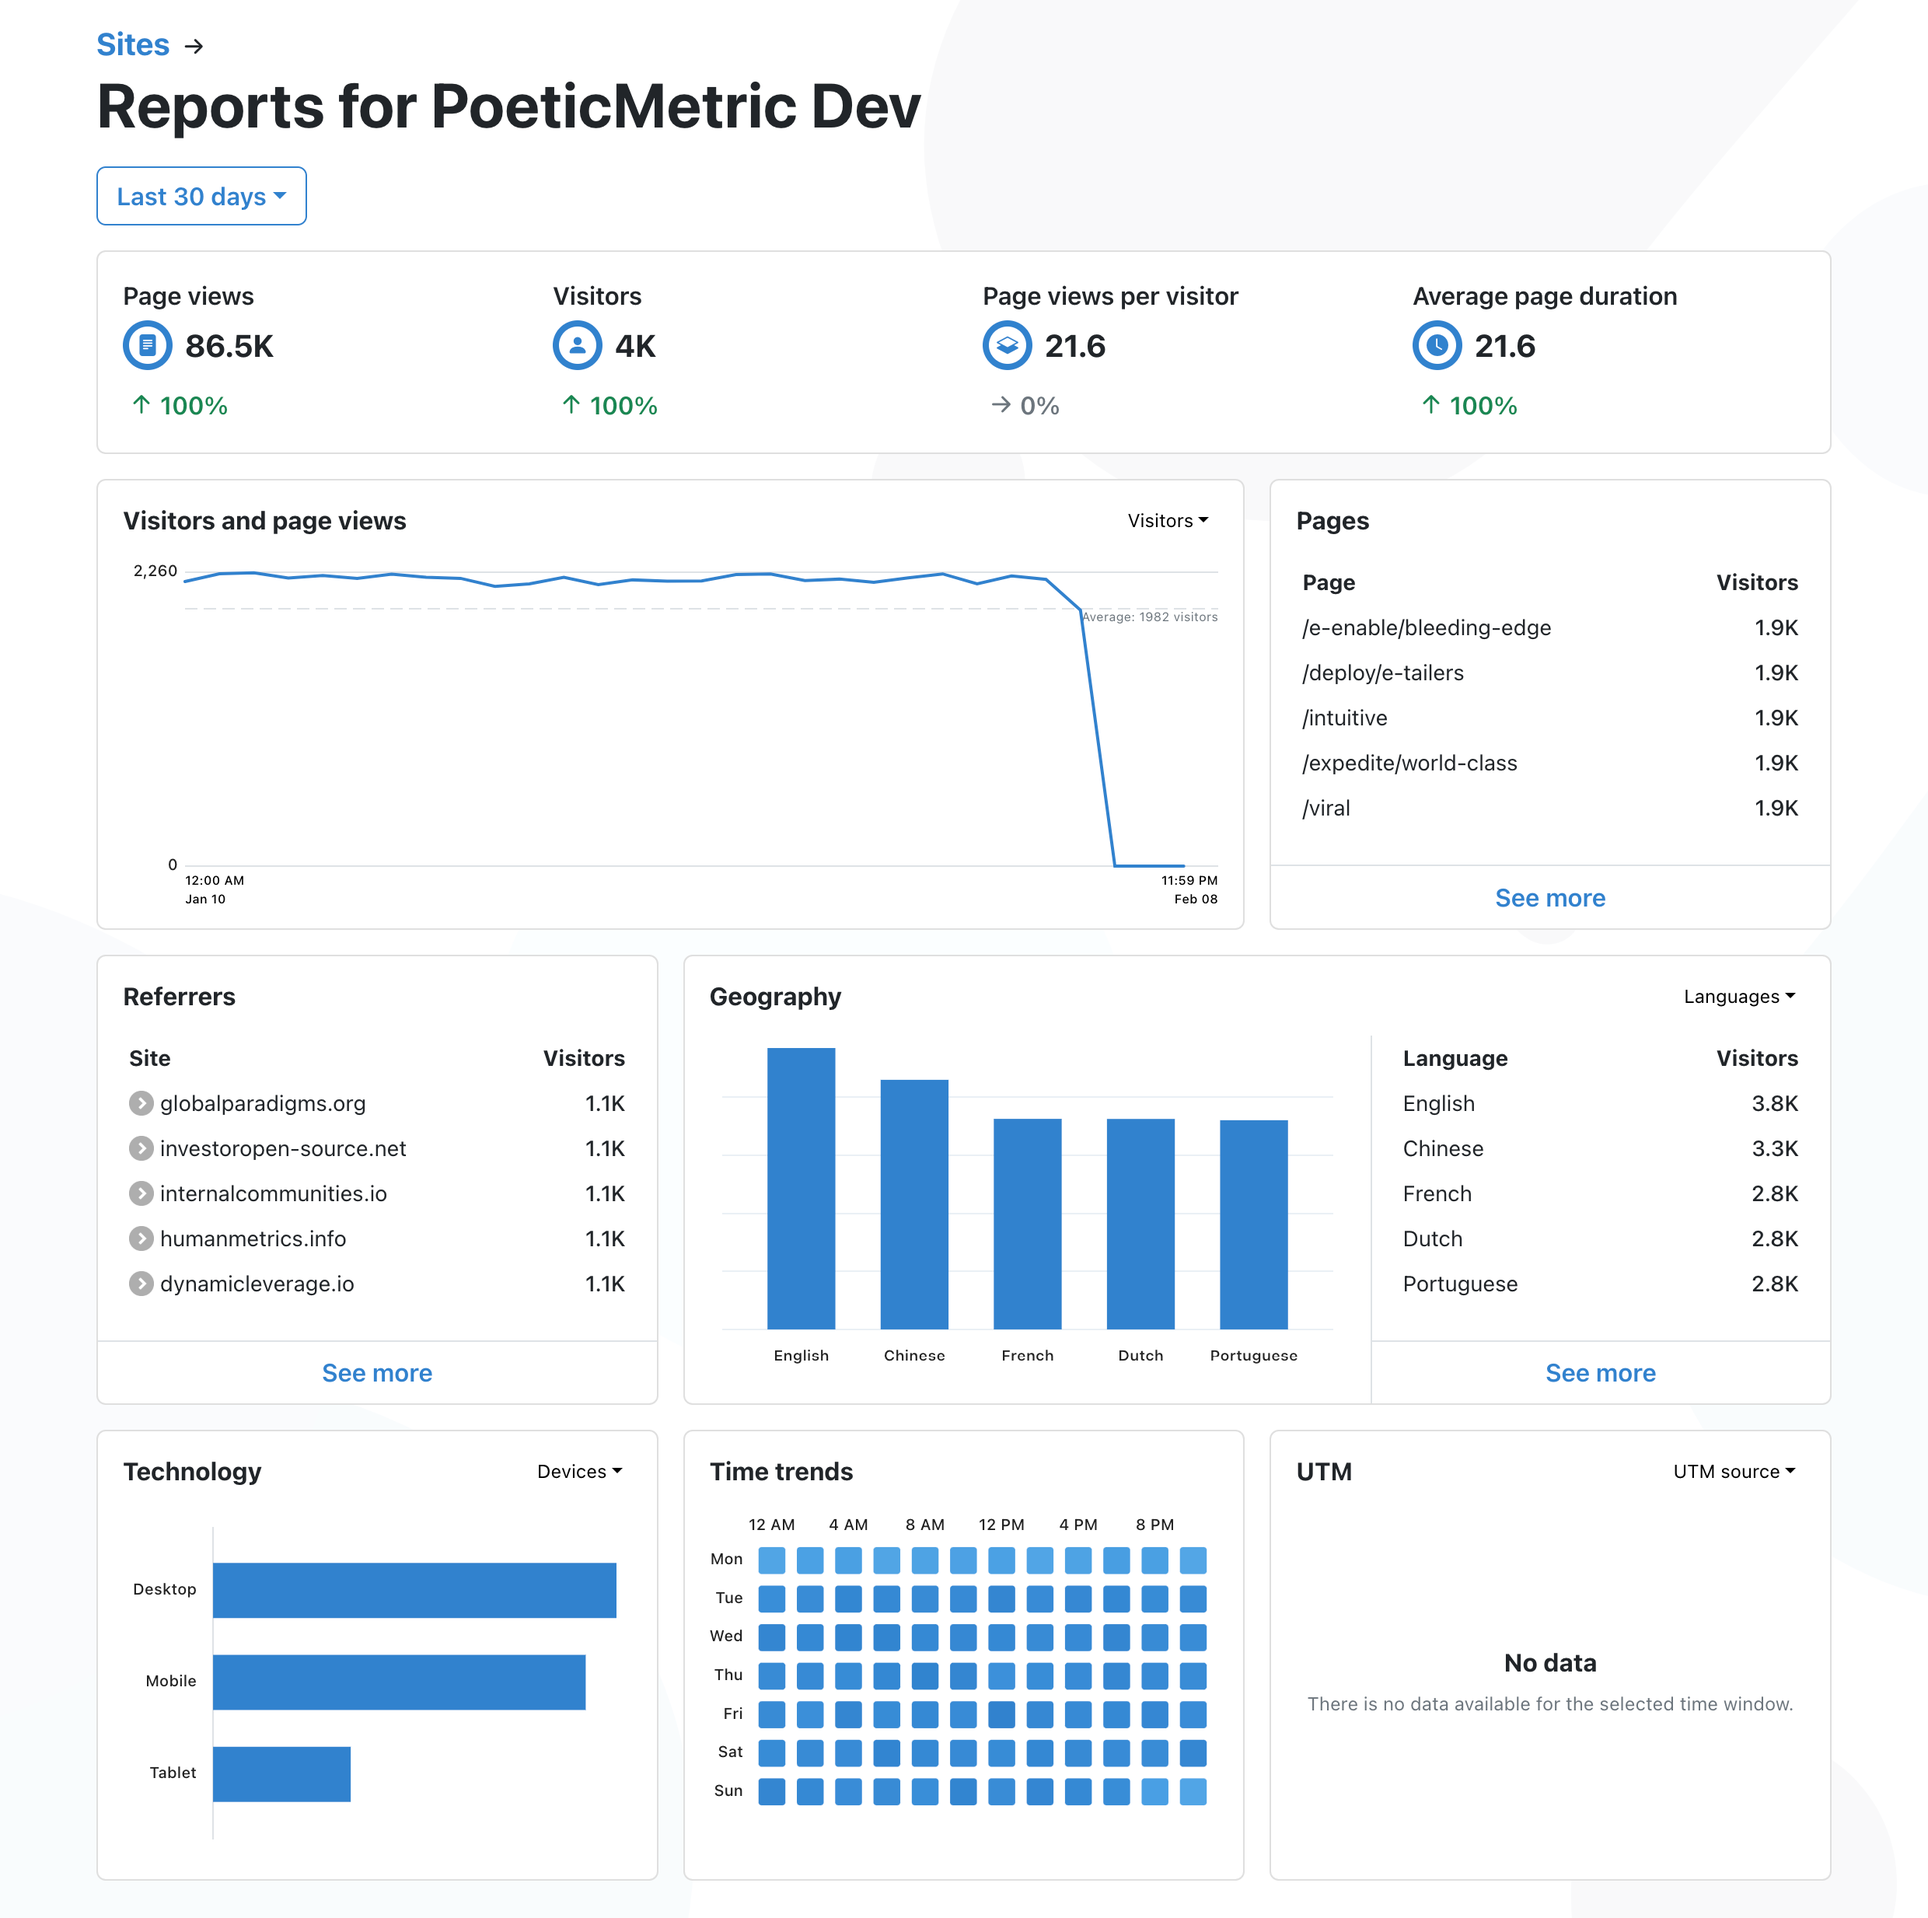
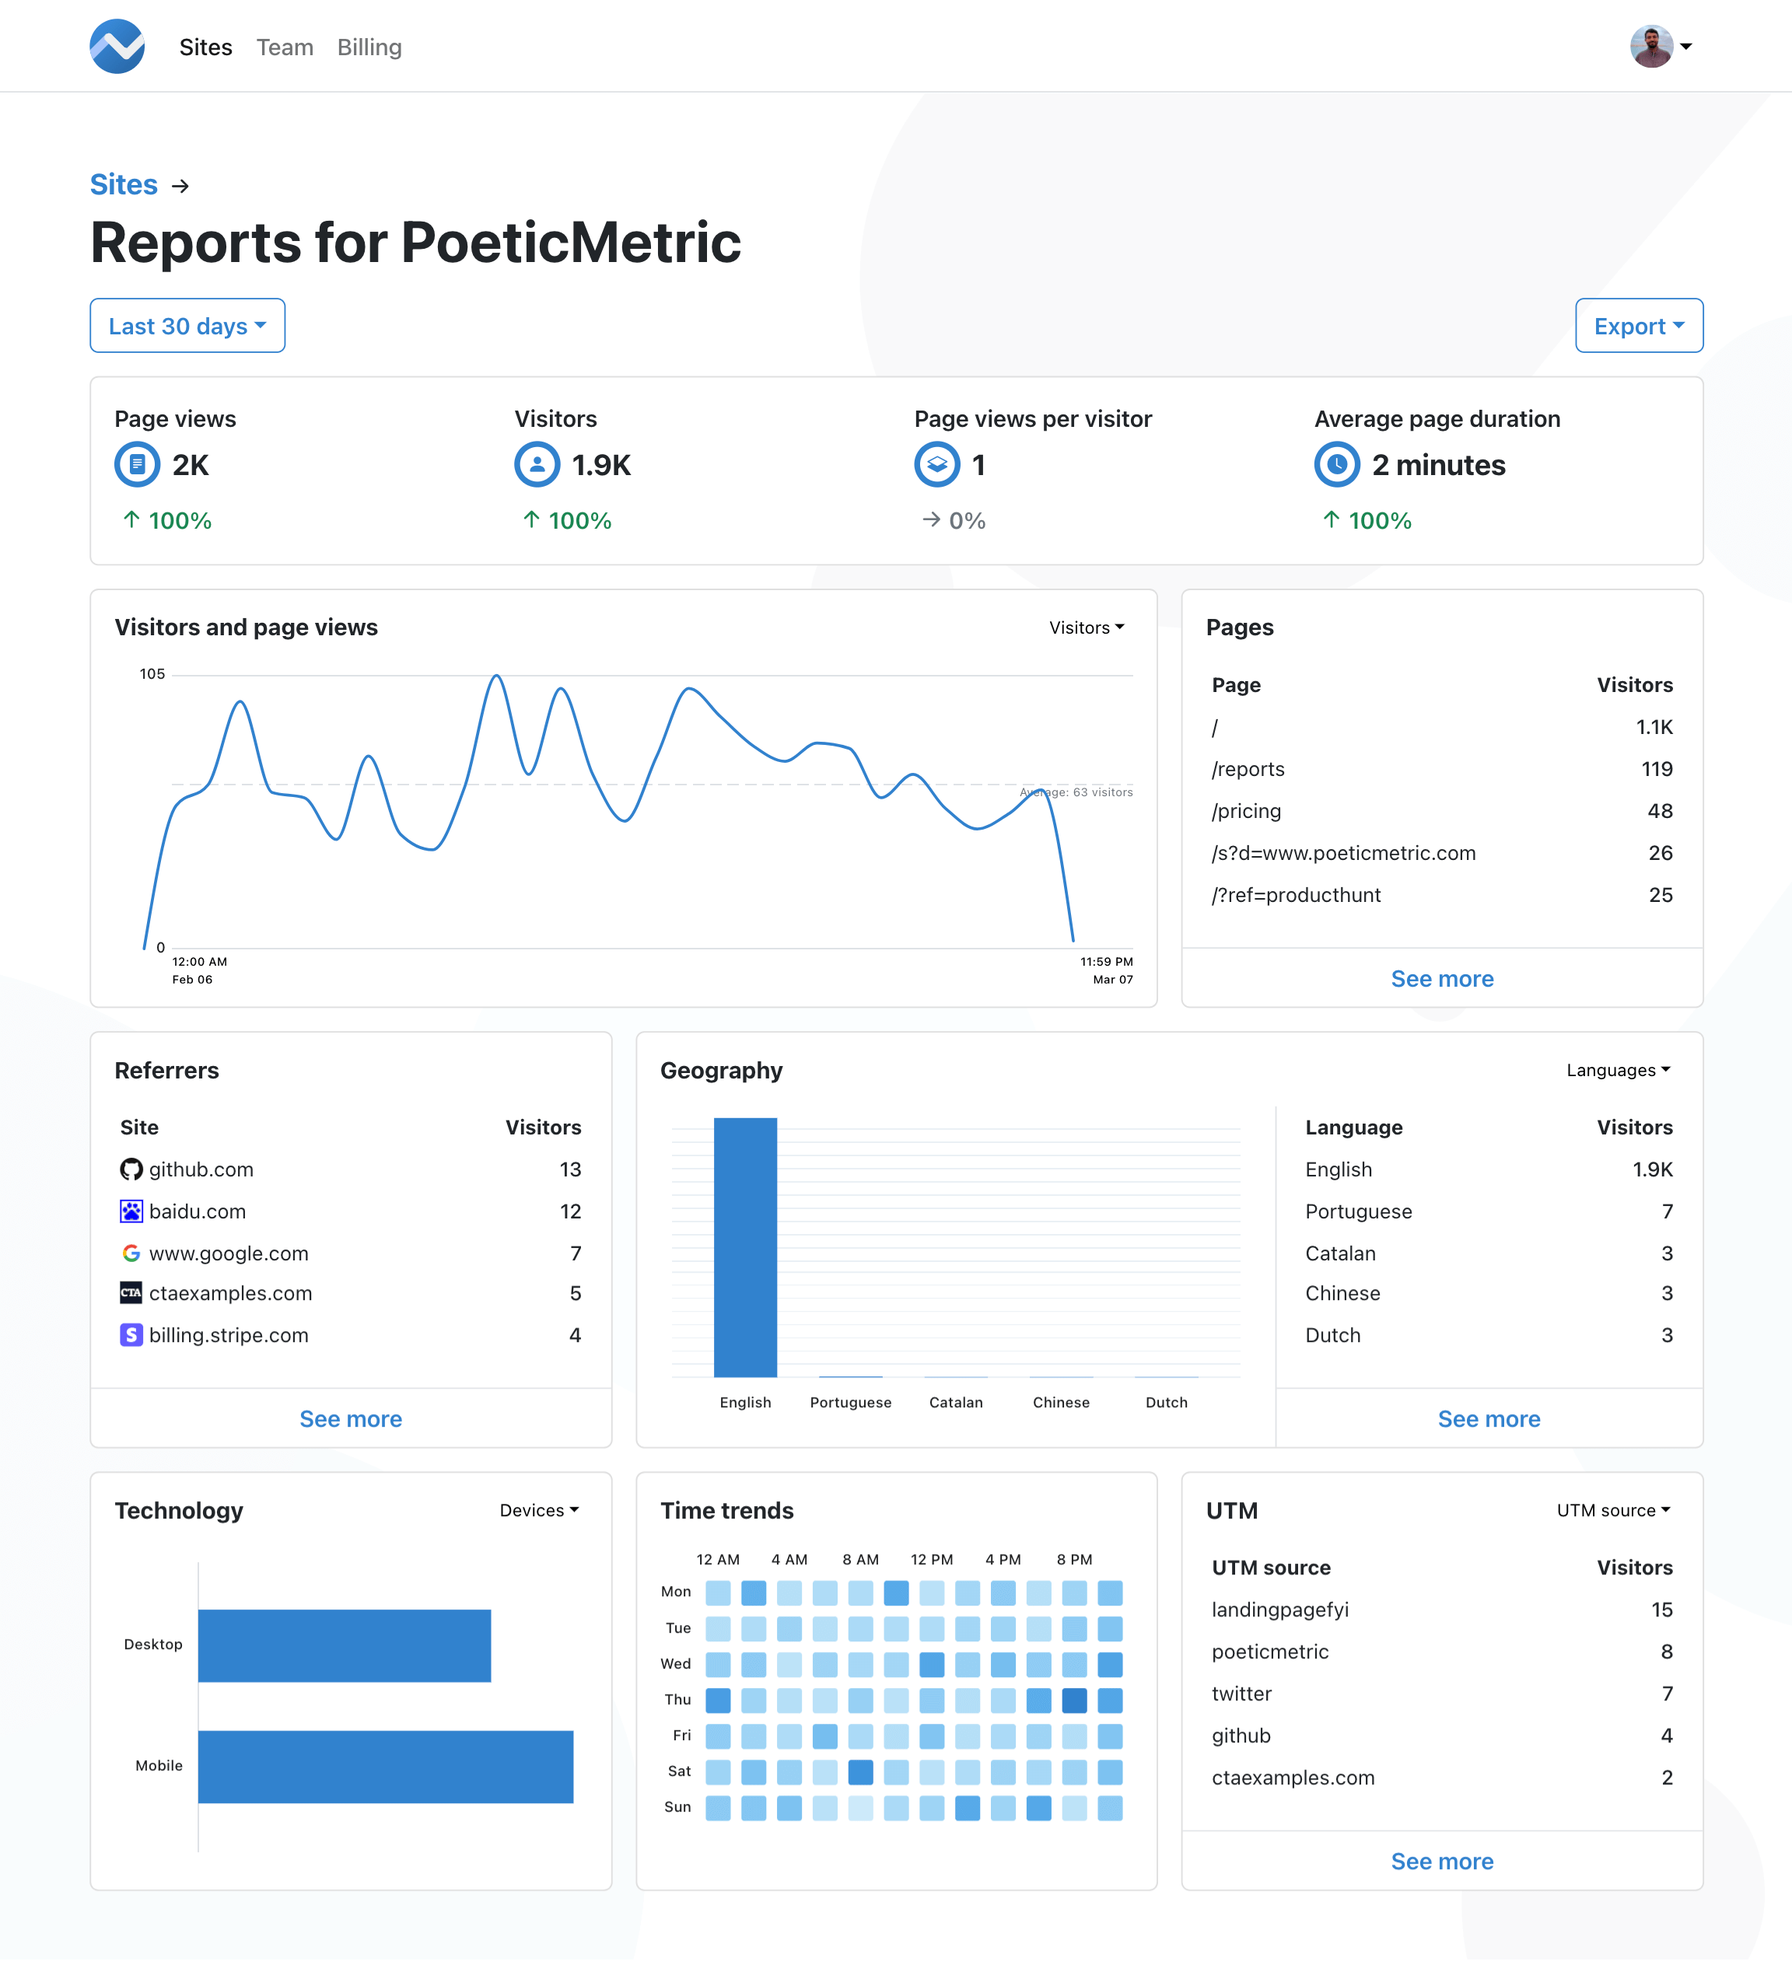
Update README (#162)
* Add screenshot to readme

* Update the screenshot on the home page

* Update self-hosted example env file

* Add sponsoring section to readme.

* Delete settings.json

* Delete idea residue files

diff --git a/README.md b/README.md
@@ -3,14 +3,24 @@
 <h3 align="center">Free as in freedom, privacy-first,<br />regulation-compliant analytics tool.</h3>
 
 <p align="center">
-<a href="https://www.gnu.org/licenses/agpl-3.0"><img alt="License: AGPL-3.0" src="https://img.shields.io/github/license/th0th/poeticmetric"></a>
-<a href="https://github.com/th0th/poeticmetric/releases/latest"><img src="https://img.shields.io/github/release/th0th/poeticmetric.svg" /></a>
-<a href="https://discord.poeticmetric.com"><img alt="Discord" src="https://img.shields.io/discord/866008872506097715" /></a>
+  <a href="https://www.gnu.org/licenses/agpl-3.0"><img alt="License: AGPL-3.0" src="https://img.shields.io/github/license/th0th/poeticmetric"></a>
+  <a href="https://github.com/th0th/poeticmetric/releases/latest"><img alt="latest version" src="https://img.shields.io/github/release/th0th/poeticmetric.svg" /></a>
+  <a href="https://discord.poeticmetric.com"><img alt="Discord" src="https://img.shields.io/discord/866008872506097715" /></a>
 </p>
 
 **PoeticMetric** is a privacy-focused, open source, and blazingly fast alternative to Google Analytics. It doesn't use cookies or any other similar technology, and it doesn't collect any personal data. So you don't have to worry about cookie banners, PoeticMetric is totally compliant with data privacy regulations GDPR, CCPA, PECR and KVKK.
 
 PoeticMetric is **privacy-first**, **transparent**, **efficient** and **sustainable**. If you would like to read more about PoeticMetric's vision, you can check out my manifesto: [Building a Better Web: PoeticMetric's Vision](https://www.poeticmetric.com/manifesto).
+
+<br />
+
+<p align="center">
+  <a href="https://www.poeticmetric.com/s?d=www.poeticmetric.com">
+    <kbd>
+      <img width="800" alt="Click here to see a live demo" src="https://user-images.githubusercontent.com/698079/223187536-8e6345c8-2ea4-48d1-830c-ed4871af84a8.png">
+    </kbd>
+  </a>
+</p>
 
 ## Using PoeticMetric
 
@@ -21,6 +31,10 @@ The quickest way to start using PoeticMetric is, [signing up on the managed serv
 PoeticMetric is 100% open source. This means, you can run your own instance of PoeticMetric on your own servers. In order to simplify self-hosting process, I also built required docker images, and prepared a sample configuration.
 
 I am planning to write a self-hosted installation guide in the future. But for now, you can check out the [`docker-compose.yaml` file in the `self-hosted`](self-hosted/docker-compose.yaml) directory. [You can also find an example `.env` file there](self-hosted/.env.example).
+
+## Sponsoring
+
+If you would like to support the development of PoeticMetric, please consider [sponsoring](https://github.com/sponsors/th0th).
 
 ## License
 
